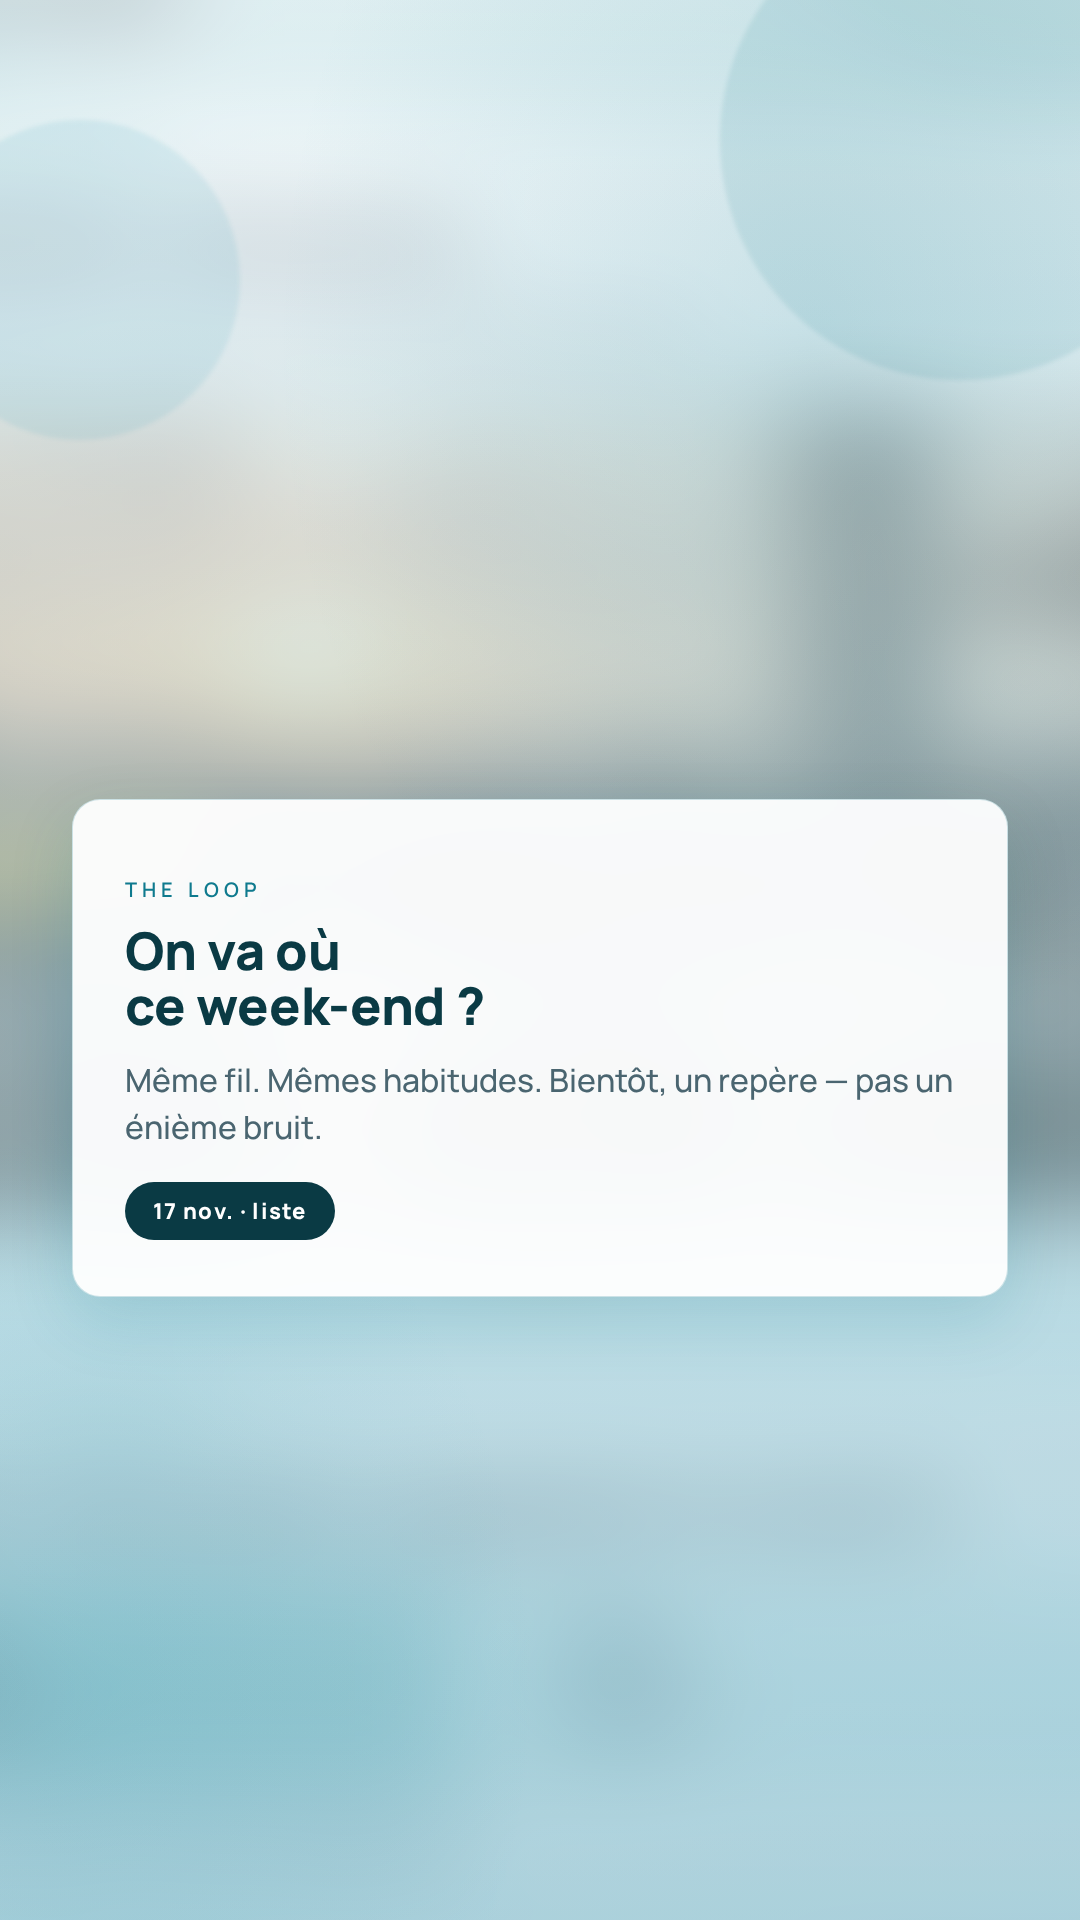
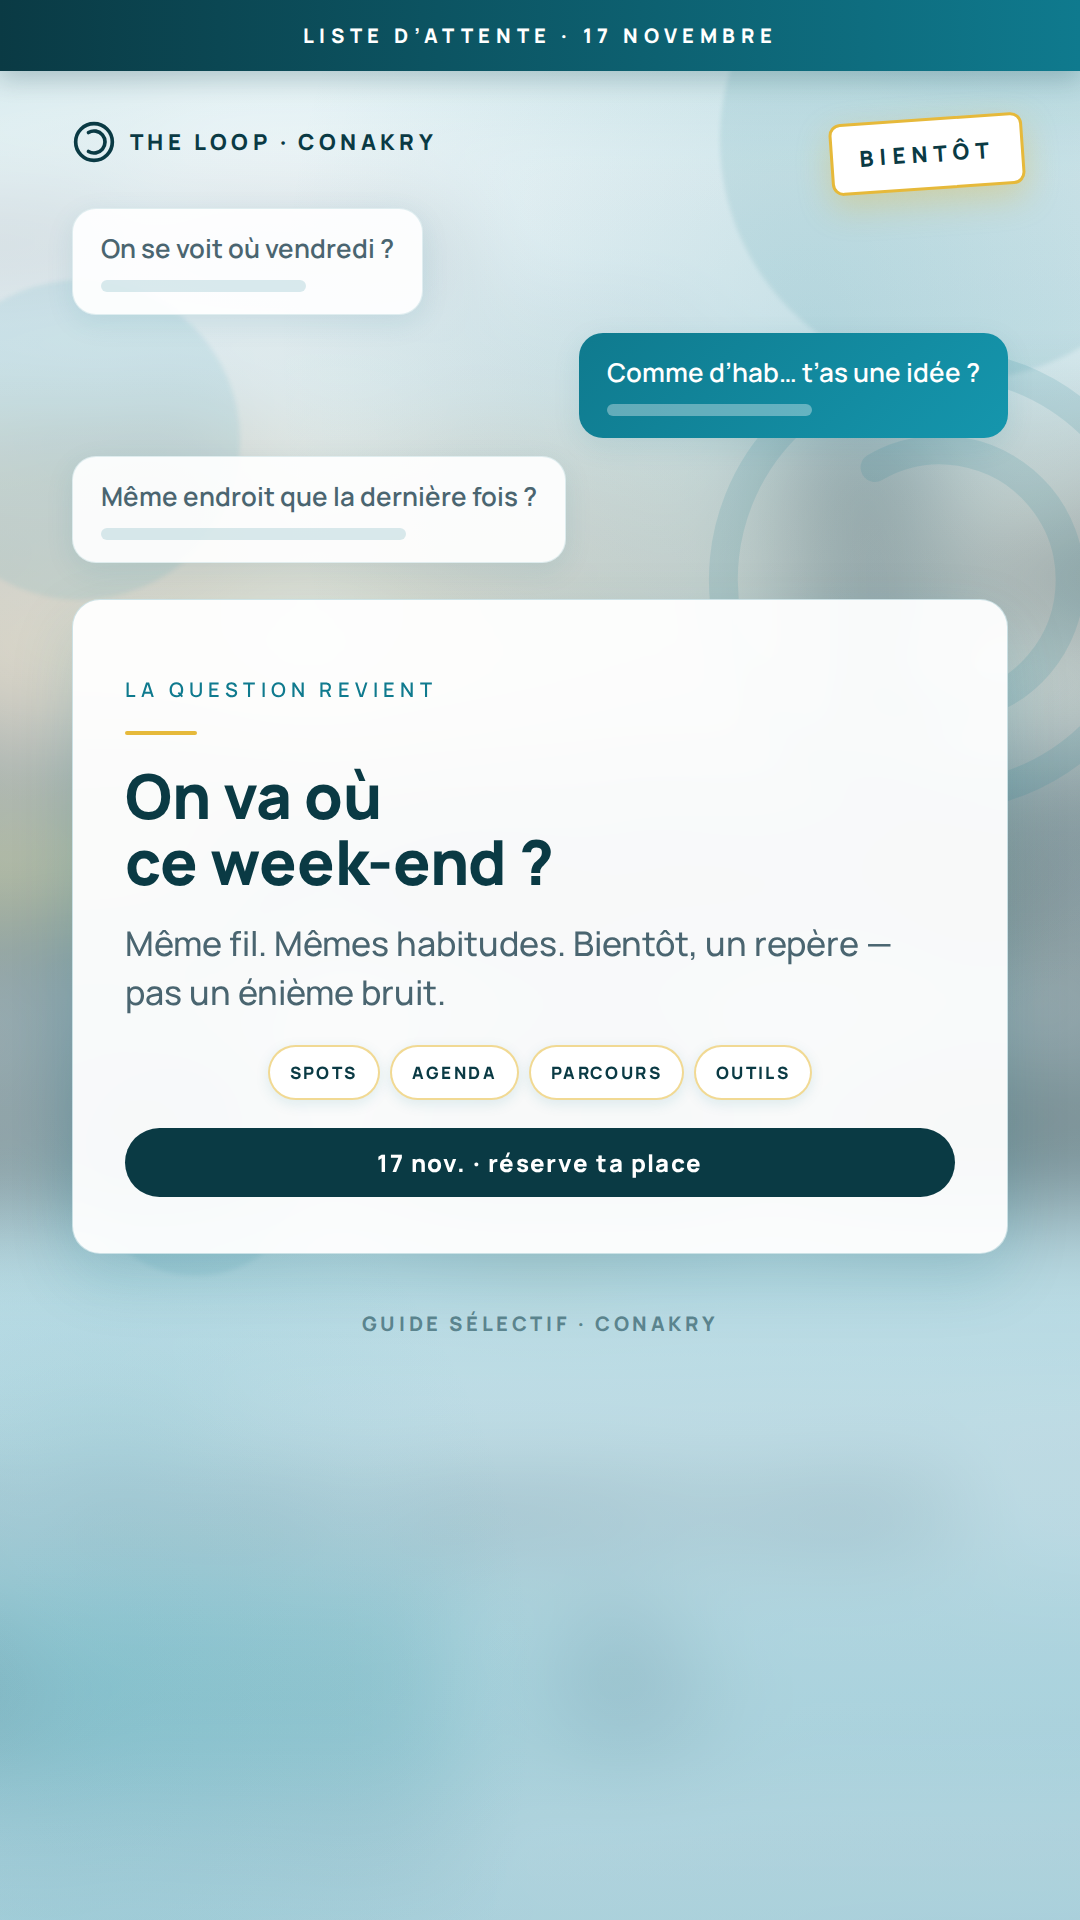
docs(com): Reels 3/11 rempli — bandeau, bulles, piliers

Changed region(s): [[0.0611, 0.1562, 0.9778, 0.6875], [0.0, 0.0, 1.0, 0.1875], [0.6722, 0.4688, 0.7944, 0.5]]

diff --git a/docs/communication/lancement-2026/export-visuels-pack-acte-a-v4-light.html b/docs/communication/lancement-2026/export-visuels-pack-acte-a-v4-light.html
@@ -216,6 +216,71 @@
       line-height: 1.4;
     }
     .sig-line em { color: var(--deep); font-style: normal; font-weight: 600; }
+    /* Reels 9:16 — remplir la hauteur (safe zone basse pour UI TikTok/IG) */
+    .slide.reel .inner {
+      padding: 120px 72px 200px;
+      justify-content: flex-start;
+      gap: 36px;
+    }
+    .slide.reel .stamp { top: 118px; }
+    .slide.reel .watermark { top: 320px; opacity: 0.12; }
+    .slide.reel .h.sm { font-size: 62px; }
+    .slide.reel .p { font-size: 34px; }
+    .reel-convo {
+      display: flex;
+      flex-direction: column;
+      gap: 18px;
+      margin-top: 8px;
+    }
+    .bubble {
+      max-width: 78%;
+      padding: 22px 28px;
+      border-radius: 24px;
+      font-size: 26px;
+      font-weight: 600;
+      line-height: 1.35;
+      box-shadow: 0 8px 28px rgba(15,122,142,0.1);
+    }
+    .bubble.them {
+      align-self: flex-start;
+      background: rgba(255,255,255,0.92);
+      color: var(--muted);
+      border: 1px solid rgba(15,122,142,0.12);
+    }
+    .bubble.me {
+      align-self: flex-end;
+      background: linear-gradient(135deg, var(--teal) 0%, var(--teal-mid) 100%);
+      color: #fff;
+    }
+    .bubble .sk {
+      display: block;
+      height: 12px;
+      border-radius: 6px;
+      background: rgba(15,122,142,0.15);
+      margin-top: 14px;
+      width: 70%;
+    }
+    .bubble.me .sk { background: rgba(255,255,255,0.35); width: 55%; }
+    .slide.reel .card {
+      margin: 0;
+      flex-shrink: 0;
+    }
+    .slide.reel .pillars { margin-top: 28px; justify-content: center; }
+    .slide.reel .pill-date {
+      display: block;
+      text-align: center;
+      margin-top: 28px;
+      font-size: 24px;
+      padding: 18px 32px;
+    }
+    .reel-foot {
+      text-align: center;
+      font-size: 20px;
+      font-weight: 700;
+      letter-spacing: 0.18em;
+      text-transform: uppercase;
+      color: rgba(10,58,68,0.55);
+    }
   </style>
 </head>
 <body>
@@ -254,14 +319,31 @@
   <div class="slide reel">
     <div class="atmo"></div>
     <div class="atmo-teal"></div>
-    <div class="blobs"><div class="blob a"></div><div class="blob b" style="top:120px;right:-40px"></div></div>
-    <div class="inner" style="justify-content:flex-end;padding-bottom:160px">
+    <svg class="watermark" viewBox="0 0 36 36" fill="none"><circle cx="18" cy="18" r="15" stroke="#0F7A8E" stroke-width="2"/><path d="M 13.5 10.21 A 9 9 0 1 1 13.5 25.79" stroke="#0F7A8E" stroke-width="2" stroke-linecap="round"/></svg>
+    <div class="blobs"><div class="blob a"></div><div class="blob b" style="top:280px;right:-40px"></div><div class="blob c" style="top:55%;left:8%"></div></div>
+    <div class="top-ribbon">Liste d’attente · 17 novembre</div>
+    <div class="stamp">BIENTÔT</div>
+    <div class="inner">
+      <div class="mark-row" style="margin-bottom:0">
+        <svg width="44" height="44" viewBox="0 0 36 36" fill="none"><circle cx="18" cy="18" r="15" stroke="#0A3A44" stroke-width="3"/><path d="M 13.5 10.21 A 9 9 0 1 1 13.5 25.79" stroke="#0A3A44" stroke-width="3" stroke-linecap="round"/></svg>
+        <span>The Loop · Conakry</span>
+      </div>
+      <div class="reel-convo" aria-hidden="true">
+        <div class="bubble them">On se voit où vendredi ?<span class="sk"></span></div>
+        <div class="bubble me">Comme d’hab… t’as une idée ?<span class="sk"></span></div>
+        <div class="bubble them">Même endroit que la dernière fois ?<span class="sk"></span></div>
+      </div>
       <div class="card">
-        <p class="ey">The Loop</p>
+        <p class="ey">La question revient</p>
+        <div class="rule"></div>
         <h1 class="h sm">On va où<br />ce week-end ?</h1>
         <p class="p">Même fil. Mêmes habitudes. Bientôt, un repère — pas un énième bruit.</p>
-        <span class="pill-date">17 nov. · liste</span>
+        <div class="pillars">
+          <span>Spots</span><span>Agenda</span><span>Parcours</span><span>Outils</span>
+        </div>
+        <span class="pill-date">17 nov. · réserve ta place</span>
       </div>
+      <p class="reel-foot">Guide sélectif · Conakry</p>
     </div>
   </div>
 

diff --git a/docs/communication/lancement-2026/fiches/01-2026-11-03.md b/docs/communication/lancement-2026/fiches/01-2026-11-03.md
@@ -5,7 +5,7 @@
 
 ## Visuels (v4 clair — aligné app)
 - Feed : `exports-png-v4-light/POST_3-11_feed-PUBLIER-3nov.png` (bandeau + BIENTÔT + piliers)
-- Reels : `exports-png-v4-light/POST_3-11_reels-PUBLIER-3nov.png`
+- Reels : `exports-png-v4-light/POST_3-11_reels-PUBLIER-3nov.png` (bandeau + fil type messages + carte + piliers)
 - Si tu ne vois pas la différence avec `feed-v2` : ouvre `GUIDE_DIFF_feed-v2-vs-PUBLIER-3nov.png`
 
 ## Légende
